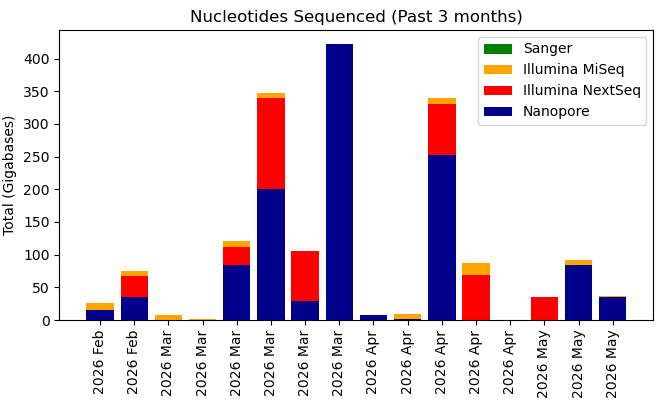
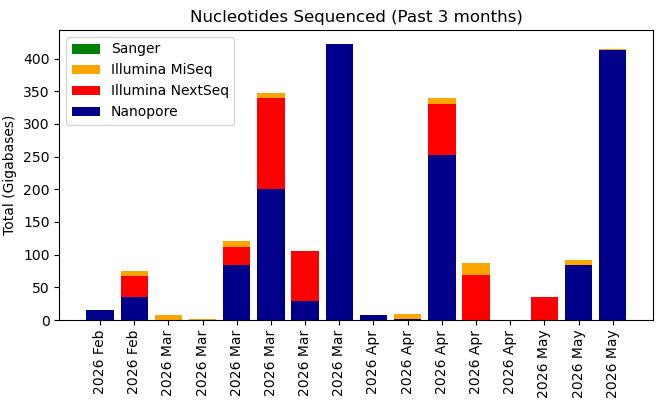
Your commit message here

diff --git a/krona/cgs.html b/krona/cgs.html
@@ -52,8 +52,8 @@ body {
   flex-direction: column;
 }
 </style>
-<H1>Genomics Facility Status: 07:00:21, 17/05/2026</H1>
-<marquee behavior="scroll" scrollamount="20" direction="left" bgcolor="lightgrey">ACGACGGCCATTAGCTGTACCATACTCAGGCACACAAAAATACTGATAGCAGTCGGCGTGTGAATCATTAGCCTTGCGACCCTCGGCAGCAAGAACCATACGACCAATATCACGAAAATAGTCACGCAAAGCATTGGGATTATCATAAAACGCCTCTAATCGGTCGTCAGCCAACGTGAGAGTGTCAAAAACGATAAACCAACCATCAGCATGAGCCTGTCGCATTGCATTCATCAAACGCTGAATAGCA</marquee>
+<H1>Genomics Facility Status: 07:00:23, 18/05/2026</H1>
+<marquee behavior="scroll" scrollamount="20" direction="left" bgcolor="lightgrey">GCGCATAAATTTGAGCAGATTTGTCGTCACAGGTTGCGCCGCCAAAACGTCGGCTACAGTAACTTTTCCCAGCCTCAATCTCATCTCTCTTTTTGCGTTCTGCTTCAATATCTGGTTGAACGGCGTCGCGTCGTAACCCAGCTTGGTAAGTTGGATTAAGCACTCCGAGATCGGAAGAGCGGTTCAGCAGGAATGCCGAGACCGATCTCGTATGCCGTCTTCTGCTTGAAAAAAAAAAACAATAAGAGAA</marquee>
 <TABLE BORDER=0><TR><TD><TABLE class="styled-table"><H3>GigaBases Sequenced</H3>
-<TR><TD><b>Platform</b></TD><TD><b>Week</b></TD><TD><b>Month</b></TD><TD><b>Year</b></TD><TD><b>Total</b></TD></TR><TR><TD>Illumina MiSeq</TD><TD>9.02</TD><TD>35.42</TD><TD>355.08</TD><TD>560.44</TD></TR><TR><TD>Illumina NextSeq</TD><TD>0.0</TD><TD>182.4</TD><TD>4178.24</TD><TD>6646.34</TD></TR><TR><TD>Nanopore PromethION</TD><TD>86.62</TD><TD>261.7</TD><TD>7562.03</TD><TD>12251.63</TD></TR><TR><TD>Sanger</TD><TD>0.0</TD><TD>0.0</TD><TD>0.02</TD><TD>0.05</TD></TR></TABLE></TD><TD><IMG SRC="fig1.png"><IMG SRC="fig2.png"></TD></TR><TR><TD><H3>No. Samples (No. Experiments)</H3>
-<TABLE class="styled-table"><TR><TD><b>Platform</b></TD><TD><b>Week</b></TD><TD><b>Month</b></TD><TD><b>Year</b></TD><TD><b>Total</b></TD></TR><TR><TD>Illumina MiSeq</TD><TD>44 (2)</TD><TD>100 (6)</TD><TD>1426 (71)</TD><TD>2474 (100)</TD></TR><TR><TD>Illumina NextSeq</TD><TD>0 (0)</TD><TD>101 (4)</TD><TD>1358 (62)</TD><TD>2186 (87)</TD></TR><TR><TD>Nanopore PromethION</TD><TD>14 (6)</TD><TD>48 (11)</TD><TD>601 (195)</TD><TD>1008 (350)</TD></TR><TR><TD>Sanger</TD><TD>576 (576)</TD><TD>2400 (2400)</TD><TD>21211 (21211)</TD><TD>45186 (45186)</TD></TR></TABLE></TD><TD><IMG SRC="fig4.png"></TD></TR></TABLE></HTML>
+<TR><TD><b>Platform</b></TD><TD><b>Week</b></TD><TD><b>Month</b></TD><TD><b>Year</b></TD><TD><b>Total</b></TD></TR><TR><TD>Illumina MiSeq</TD><TD>1.3</TD><TD>35.42</TD><TD>355.08</TD><TD>560.44</TD></TR><TR><TD>Illumina NextSeq</TD><TD>0.0</TD><TD>182.4</TD><TD>4178.24</TD><TD>6646.34</TD></TR><TR><TD>Nanopore PromethION</TD><TD>412.97</TD><TD>639.37</TD><TD>7939.7</TD><TD>12629.3</TD></TR><TR><TD>Sanger</TD><TD>0.0</TD><TD>0.0</TD><TD>0.02</TD><TD>0.05</TD></TR></TABLE></TD><TD><IMG SRC="fig1.png"><IMG SRC="fig2.png"></TD></TR><TR><TD><H3>No. Samples (No. Experiments)</H3>
+<TABLE class="styled-table"><TR><TD><b>Platform</b></TD><TD><b>Week</b></TD><TD><b>Month</b></TD><TD><b>Year</b></TD><TD><b>Total</b></TD></TR><TR><TD>Illumina MiSeq</TD><TD>8 (1)</TD><TD>100 (6)</TD><TD>1426 (71)</TD><TD>2474 (100)</TD></TR><TR><TD>Illumina NextSeq</TD><TD>0 (0)</TD><TD>101 (4)</TD><TD>1358 (62)</TD><TD>2186 (87)</TD></TR><TR><TD>Nanopore PromethION</TD><TD>6 (5)</TD><TD>48 (11)</TD><TD>601 (195)</TD><TD>1008 (350)</TD></TR><TR><TD>Sanger</TD><TD>576 (576)</TD><TD>2208 (2208)</TD><TD>21115 (21115)</TD><TD>45186 (45186)</TD></TR></TABLE></TD><TD><IMG SRC="fig4.png"></TD></TR></TABLE></HTML>
